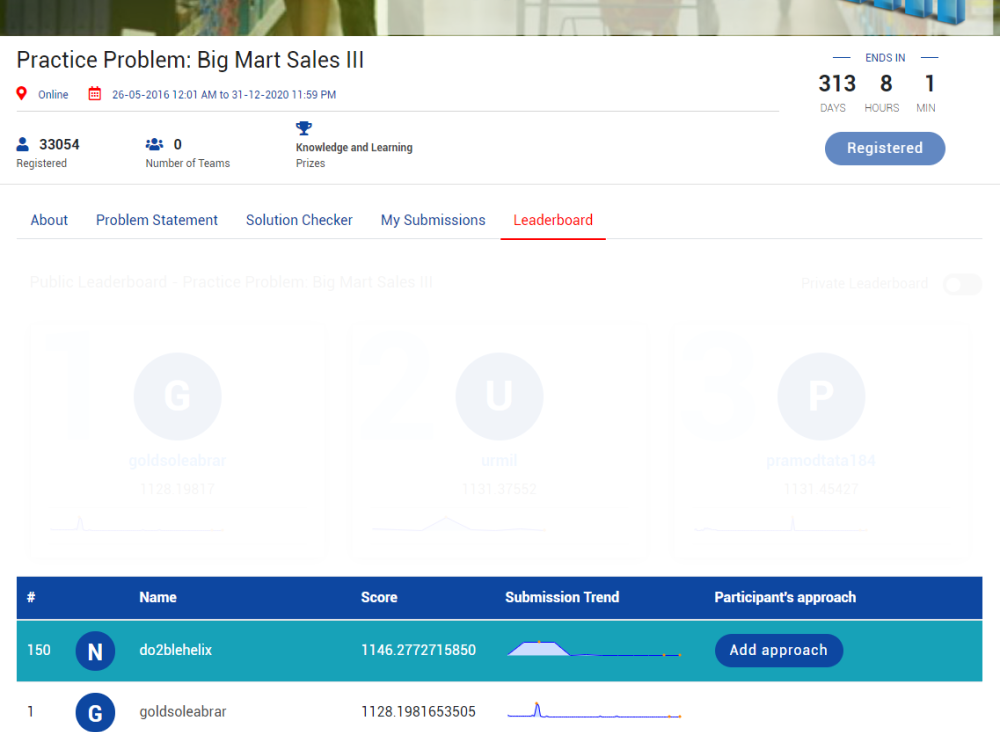
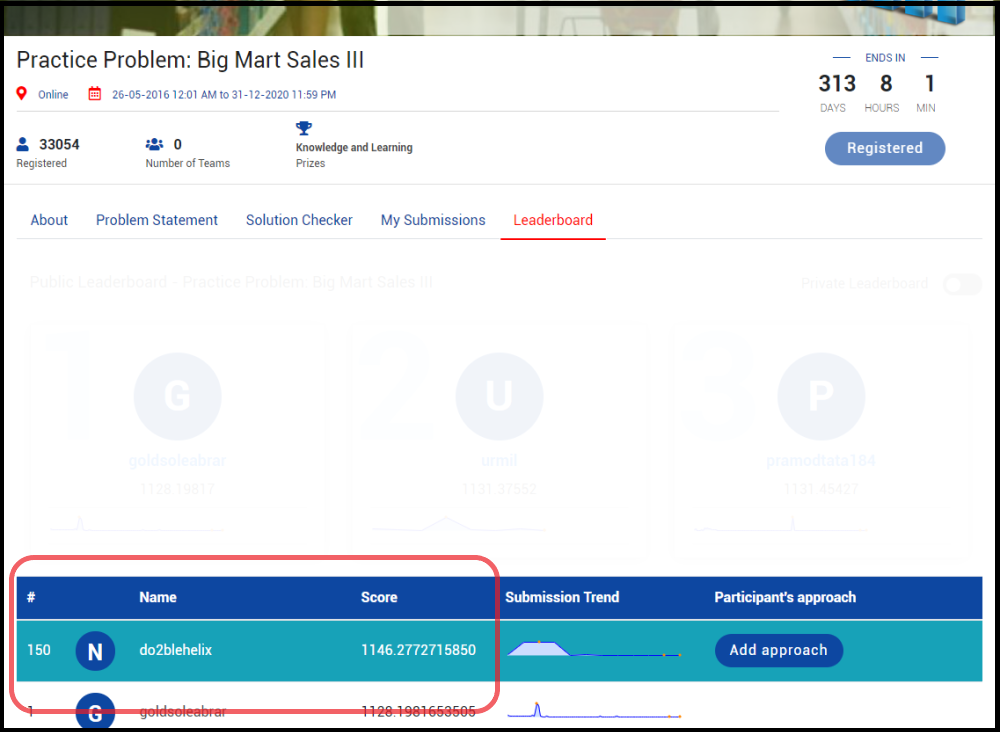
updated index to accomodate pics
added pic borders

Changed region(s): [[0.0, 0.0, 1.0, 1.0], [0.496, 0.7814, 0.527, 0.9317]]

diff --git a/index.html b/index.html
@@ -368,42 +368,42 @@
           </div>
           <div class="row">
             
-            <div class="col-lg-4 col-sm-4 col-12 services-icon">
+            <div class="col-lg-4 col-sm-4 col-6 services-icon">
               <div class="service-img">
                 <img class="img-fluid" src="https://do2blehelix.github.io/images/icons/ai2.png" alt="Machine Learning">
               </div>
               <div class="service-label">Machine Learning</div>
             </div>
             
-            <div class="col-lg-4 col-sm-4 col-12 services-icon">
+            <div class="col-lg-4 col-sm-4 col-6 services-icon">
               <div class="service-img">
                 <img class="img-fluid" src="https://do2blehelix.github.io/images/icons/analytics2.png" alt="Storyboarding">
               </div>
               <div class="service-label">Storyboarding</div>
             </div>
             
-            <div class="col-lg-4 col-sm-4 col-12 services-icon">
+            <div class="col-lg-4 col-sm-4 col-6 services-icon">
               <div class="service-img">
                 <img class="img-fluid" src="https://do2blehelix.github.io/images/icons/framework2.png" alt="Project Management">
               </div>
               <div class="service-label">Project Management</div>
             </div>
             
-            <div class="col-lg-4 col-sm-4 col-12 services-icon">
+            <div class="col-lg-4 col-sm-4 col-6 services-icon">
               <div class="service-img">
                 <img class="img-fluid" src="https://do2blehelix.github.io/images/icons/group2.png" alt="Team Management">
               </div>
               <div class="service-label">Team Management</div>
             </div>
             
-            <div class="col-lg-4 col-sm-4 col-12 services-icon">
+            <div class="col-lg-4 col-sm-4 col-6 services-icon">
               <div class="service-img">
                 <img class="img-fluid" src="https://do2blehelix.github.io/images/icons/dmarketing2.png" alt="Digital Marketing">
               </div>
               <div class="service-label">Digital Marketing</div>
             </div>
             
-            <div class="col-lg-4 col-sm-4 col-12 services-icon">
+            <div class="col-lg-4 col-sm-4 col-6 services-icon">
               <div class="service-img">
                 <img class="img-fluid" src="https://do2blehelix.github.io/images/icons/data2.png" alt="Data Analytics">
               </div>
@@ -469,7 +469,7 @@
       <div class="col-lg-10 col-md-10 col-sm-10 col-10 mx-auto">
         <div class="row filtr-container wow fadeInUp list" data-wow-duration="1.5s">
           
-          <div class="col-lg-4 col-md-6 col-sm-6 col-12 filtr-item" data-category="certifications">
+          <div class="col-lg-4 col-md-6 col-sm-6 col-6 filtr-item" data-category="certifications">
             <div class="item-holder">
               <a href="https://do2blehelix.github.io/images/portfolio/udacity-dsfe.png" title="Nanodegree  Data Scientist">
                   <img src="https://do2blehelix.github.io/images/portfolio/udacity-dsfe.png" alt="Nanodegree  Data Scientist">
@@ -482,7 +482,7 @@
             </div>
           </div>
           
-          <div class="col-lg-4 col-md-6 col-sm-6 col-12 filtr-item" data-category="certifications">
+          <div class="col-lg-4 col-md-6 col-sm-6 col-6 filtr-item" data-category="certifications">
             <div class="item-holder">
               <a href="https://do2blehelix.github.io/images/portfolio/udacity-da.png" title="Nanodegree  Data Analyst">
                   <img src="https://do2blehelix.github.io/images/portfolio/udacity-da.png" alt="Nanodegree  Data Analyst">
@@ -495,7 +495,7 @@
             </div>
           </div>
           
-          <div class="col-lg-4 col-md-6 col-sm-6 col-12 filtr-item" data-category="hackathons">
+          <div class="col-lg-4 col-md-6 col-sm-6 col-6 filtr-item" data-category="hackathons">
             <div class="item-holder">
               <a href="https://do2blehelix.github.io/images/portfolio/kaggle-titanic.png" title="Kaggle  Titanic">
                   <img src="https://do2blehelix.github.io/images/portfolio/kaggle-titanic.png" alt="Kaggle  Titanic">
@@ -508,7 +508,7 @@
             </div>
           </div>
           
-          <div class="col-lg-4 col-md-6 col-sm-6 col-12 filtr-item" data-category="hackathons">
+          <div class="col-lg-4 col-md-6 col-sm-6 col-6 filtr-item" data-category="hackathons">
             <div class="item-holder">
               <a href="https://do2blehelix.github.io/images/portfolio/avidya-loan.png" title="AnaltyicsVidhya  LoanPrediction">
                   <img src="https://do2blehelix.github.io/images/portfolio/avidya-loan.png" alt="AnaltyicsVidhya  LoanPrediction">
@@ -521,7 +521,7 @@
             </div>
           </div>
           
-          <div class="col-lg-4 col-md-6 col-sm-6 col-12 filtr-item" data-category="hackathons">
+          <div class="col-lg-4 col-md-6 col-sm-6 col-6 filtr-item" data-category="hackathons">
             <div class="item-holder">
               <a href="https://do2blehelix.github.io/images/portfolio/avidya-bmart.png" title="AnalyticsVidhya  SalesPrediction">
                   <img src="https://do2blehelix.github.io/images/portfolio/avidya-bmart.png" alt="AnalyticsVidhya  SalesPrediction">
@@ -579,29 +579,37 @@
         
         <div class="fun-facts wow fadeInUp" data-wow-duration="1.5s">
           
-          <div class="fun-fact-holder">
-            <img class="img-fluid" src="https://do2blehelix.github.io/images/icons/medal.png" alt="Years">
-            <p class="fact-counter count" data-count="6">0</p>
-            <p>Years</p>
-          </div>
+		  <div class="col-lg-3 col-sm-3 col-3">
+			  <div class="fun-fact-holder">
+				<img class="img-fluid" src="https://do2blehelix.github.io/images/icons/medal.png" alt="Years">
+				<p class="fact-counter count" data-count="6">0</p>
+				<p>Years</p>
+			  </div>
+		  </div>
           
-          <div class="fun-fact-holder">
-            <img class="img-fluid" src="https://do2blehelix.github.io/images/icons/global.png" alt="Countries">
-            <p class="fact-counter count" data-count="7">0</p>
-            <p>Countries</p>
-          </div>
+		  <div class="col-lg-3 col-sm-3 col-3">
+			  <div class="fun-fact-holder">
+				<img class="img-fluid" src="https://do2blehelix.github.io/images/icons/global.png" alt="Countries">
+				<p class="fact-counter count" data-count="7">0</p>
+				<p>Countries</p>
+			  </div>
+		  </div>
           
-          <div class="fun-fact-holder">
-            <img class="img-fluid" src="https://do2blehelix.github.io/images/icons/smile.png" alt="% Satisfaction">
-            <p class="fact-counter count" data-count="100">0</p>
-            <p>% Satisfaction</p>
-          </div>
+		  <div class="col-lg-3 col-sm-3 col-3">
+			  <div class="fun-fact-holder">
+				<img class="img-fluid" src="https://do2blehelix.github.io/images/icons/smile.png" alt="% Satisfaction">
+				<p class="fact-counter count" data-count="100">0</p>
+				<p>% Satisfaction</p>
+			  </div>
+		  </div>
           
-          <div class="fun-fact-holder">
-            <img class="img-fluid" src="https://do2blehelix.github.io/images/icons/projects.png" alt="Projects">
-            <p class="fact-counter count" data-count="13">0</p>
-            <p>Projects</p>
-          </div>
+		  <div class="col-lg-3 col-sm-3 col-3">
+			  <div class="fun-fact-holder">
+				<img class="img-fluid" src="https://do2blehelix.github.io/images/icons/projects.png" alt="Projects">
+				<p class="fact-counter count" data-count="13">0</p>
+				<p>Projects</p>
+			  </div>
+		  </div>
           
         </div>
         
